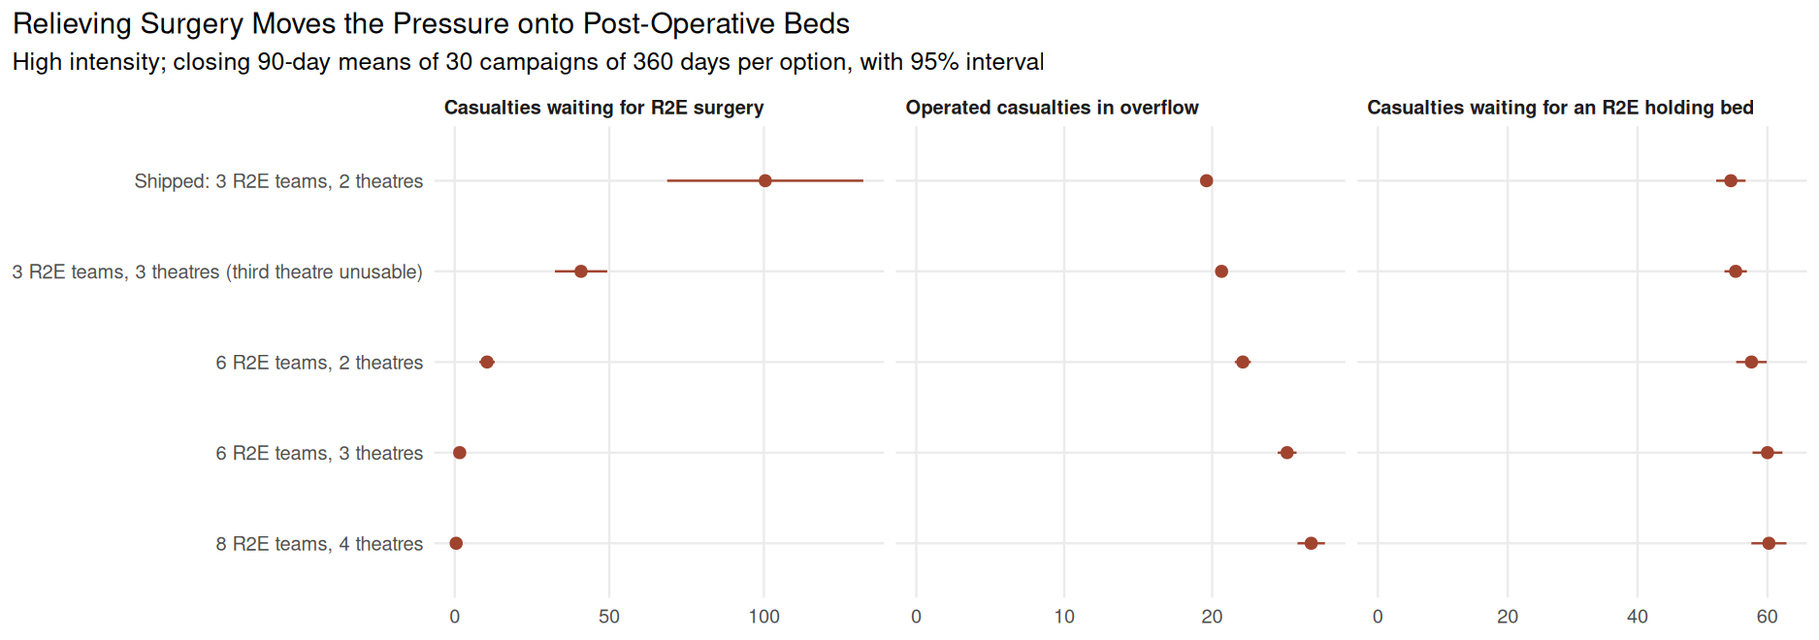
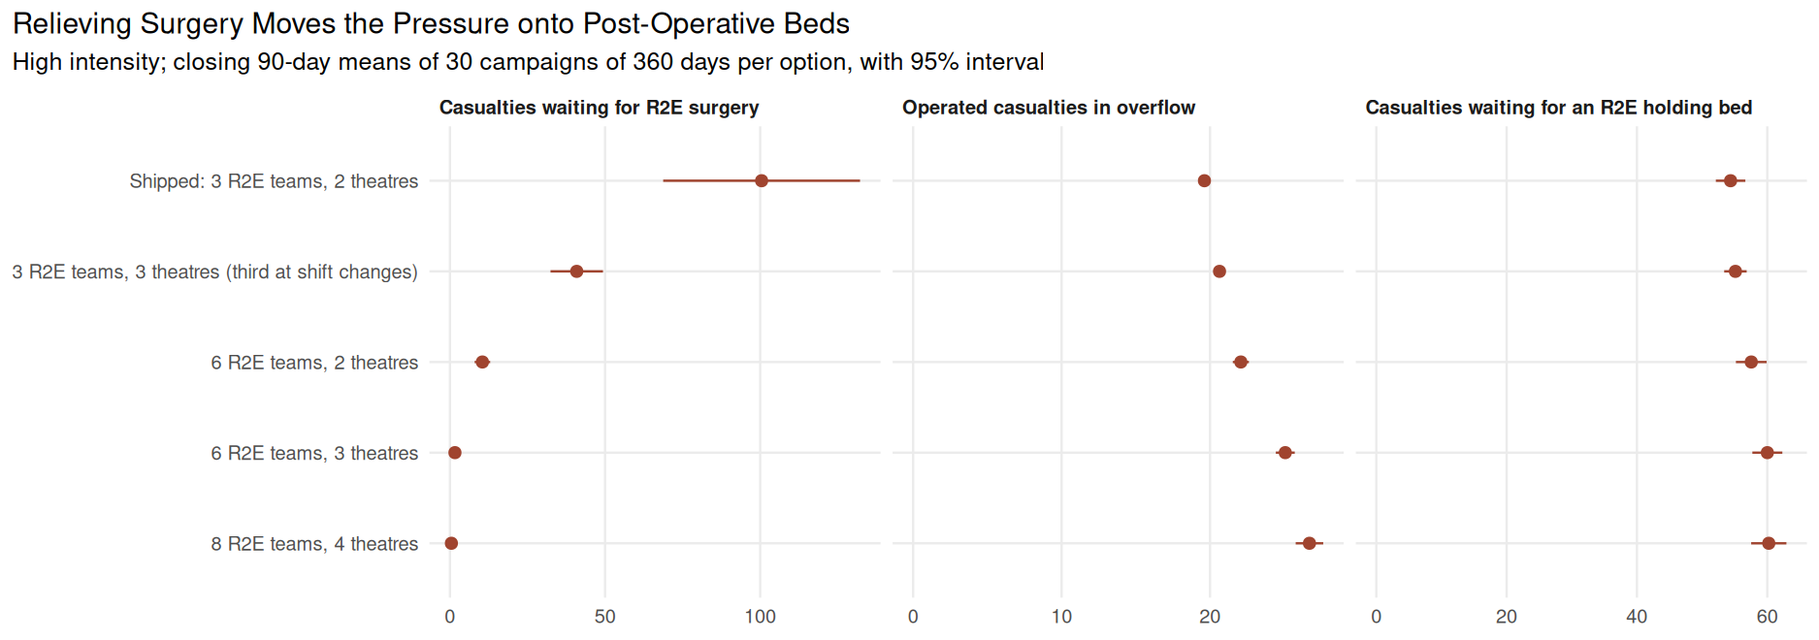
docs(issue-631): describe the third theatre at three sections as a shift-change relief
The theatre sweep called three theatres at three sections a null control, the
two sections on shift never outnumbering three theatres. A section still
operating when its shift ends keeps its theatre until it finishes
(r2e_surgery_block()), so at two theatres an incoming section can find both
held. Measured at high intensity over four 360-day runs at seed 42, the
theatre pool's queue (a section held, waiting for a theatre) formed 665 times a
campaign at two theatres, every time within three hours after a shift change,
and holding a section idle 7.3% of the time; at three theatres it never formed.

Methods, Results, the planning paper, CLAUDE.md, the sweep's comments and the
figure label now describe the arm as a third theatre used only at a shift
change, and the planning paper no longer uses it as the example of stream
divergence.

Claude-Session: https://claude.ai/code/session_01CkaegvR5JF22fhwZUpSGkn

diff --git a/docs/Planning_Implications.md b/docs/Planning_Implications.md
@@ -224,7 +224,7 @@ The beds that take the pressure back are intensive care beds. With six teams and
 
 ![Post-operative pressure at R2E for each surgical team and theatre establishment at high intensity](../images/post_op_pressure.png)
 
-The casualties waiting for R2E surgery (left), the operated casualties in post-operative overflow (centre) and the casualties waiting for an R2E holding bed (right) over the closing 90 days for each surgical team and theatre establishment at high intensity, each with its 95% interval. A third theatre at the shipped three teams cannot be used, no more than two teams being on shift at once.
+The casualties waiting for R2E surgery (left), the operated casualties in post-operative overflow (centre) and the casualties waiting for an R2E holding bed (right) over the closing 90 days for each surgical team and theatre establishment at high intensity, each with its 95% interval. A third theatre at the shipped three teams is used only at a shift change, when an operation overrunning it still holds a theatre and the incoming team would otherwise wait.
 
 ### Finding 7: R2B Sends Most of Its Surgery Rearward
 
@@ -341,7 +341,7 @@ Each row of the table is one lever a planner controls, with the setting the evid
 | Casualty surge event response | Policies to recover holding capacity | None; a stress test, remedies not yet specified | Event casualties die of wounds at <!-- GEN cell:casualty_surge::Died-of-wounds rate, event casualties::Events injected::mean -->2.02%<!-- /GEN --> against <!-- GEN cell:casualty_surge::Died-of-wounds rate, ordinary casualties::Events injected::mean -->0.81%<!-- /GEN --> for ordinary casualties ([Results](Results.md#casualty-surge-events)). Cost **measured**; remedies **untested**. | Event casualties die of wounds at <!-- GEN cell:casualty_surge_high::Died-of-wounds rate, event casualties::Events injected::mean -->17.51%<!-- /GEN --> against <!-- GEN cell:casualty_surge_high::Died-of-wounds rate, ordinary casualties::Events injected::mean -->15.08%<!-- /GEN --> for ordinary casualties ([Results](Results.md#casualty-surge-events)). Cost **measured**; remedies **untested**. |
 | Casualty surge event size | Planning for larger incidents than the configured range | None; a stress test | The R2E theatre queue is the first pool to rise, peaking at <!-- GEN cell:casualty_surge_size::None::Peak R2E theatre queue::full -->35.6 ± 8.2<!-- /GEN --> with no events, <!-- GEN cell:casualty_surge_size::20::Peak R2E theatre queue::full -->48.4 ± 13.9<!-- /GEN --> at 20 casualties per event and <!-- GEN cell:casualty_surge_size::40::Peak R2E theatre queue::full -->59.1 ± 6.3<!-- /GEN --> at 40, while the post-operative overflow moves from <!-- GEN cell:casualty_surge_size::None::Peak R2E post-operative overflow census::full -->26.9 ± 0.7<!-- /GEN --> to <!-- GEN cell:casualty_surge_size::40::Peak R2E post-operative overflow census::full -->30.5 ± 0.5<!-- /GEN -->; the theatre queue reached <!-- GEN cell:casualty_surge_size::180::Peak R2E theatre queue::full -->2082.4 ± 208.5<!-- /GEN --> at 180 casualties ([Results](Results.md#casualty-surge-event-size)). Cost **measured**; remedies **untested**; the size range is **informed estimate**. | At 20 casualties per event the peak post-operative overflow was <!-- GEN cell:casualty_surge_size_high::20::Peak R2E post-operative overflow census::full -->31.6 ± 0.8<!-- /GEN -->, against <!-- GEN cell:casualty_surge_size_high::None::Peak R2E post-operative overflow census::full -->31.7 ± 0.6<!-- /GEN --> with no events ([Results](Results.md#casualty-surge-event-size)). Cost **measured**; remedies **untested**. |
 | Surgical section count at R2B and R2E | A second R2B section per unit; a fourth R2E section at high intensity | R2E surgical section: 1 anaesthetist, 2 surgeons, 4 nurses; R2B surgical section: 1 anaesthetist, 2 surgeons, 1 medic | At moderate intensity the shipped establishment is already <!-- GEN cell:surgical_team::R2E theatre queue, late-half classification::R2E 3, R2B 1 (shipped)::full -->converged at 0.85<!-- /GEN --> ([Results](Results.md#surgical-team-establishment)). **Measured**. | The R2E theatre queue shortfall per day falls from <!-- GEN cell:surgical_team_high::R2E theatre queue shortfall per day::R2E 3, R2B 1 (shipped)::full -->0.049 [−0.232, 0.330]<!-- /GEN --> at the shipped establishment to <!-- GEN cell:surgical_team_high::R2E theatre queue shortfall per day::R2E 4, R2B 1::full -->0.001 [−0.021, 0.022]<!-- /GEN --> with a fourth R2E section and <!-- GEN cell:surgical_team_high::R2E theatre queue shortfall per day::R2E 4, R2B 2::full -->0.006 [−0.007, 0.019]<!-- /GEN --> with a fourth R2E section and a second R2B section, the queue settling in every arm, from <!-- GEN cell:surgical_team_high::R2E theatre mean queue::R2E 3, R2B 1 (shipped)::mean -->100.45<!-- /GEN --> casualties at the shipped establishment to <!-- GEN cell:surgical_team_high::R2E theatre mean queue::R2E 4, R2B 1::mean -->10.02<!-- /GEN --> with a fourth R2E section, a second R2B section per unit alone changing deaths of wounds by <!-- GEN cell:surgical_team_paired_high::Died of wounds::R2E 3, R2B 2::full -->−357.80 [−470.84, −244.76]<!-- /GEN -->, and deaths of wounds changing by <!-- GEN cell:surgical_team_paired_high::Died of wounds::R2E 4, R2B 1::full -->−418.23 [−529.52, −306.94]<!-- /GEN --> ([Results](Results.md#surgical-team-establishment)). **Measured**. |
-| R2E operating theatre count | A third theatre where three R2E sections share a shift; none at the shipped establishment | One theatre and its equipment, staffed by the surgical sections already fielded | Theatres are in use <!-- GEN cell:ot_bed::R2E theatre occupancy (%)::2 theatres, 3 sections (shipped)::mean -->27.7<!-- /GEN --> per cent of the time at the shipped establishment, and no added theatre resolves a change in deaths of wounds (<!-- GEN cell:ot_bed_paired::Died of wounds::3 theatres, 3 sections::full -->−0.40 [−4.56, +3.76]<!-- /GEN --> at three sections, <!-- GEN cell:ot_bed_paired::Died of wounds::3 theatres, 6 sections against 2 theatres, 6 sections::full -->−3.00 [−6.29, +0.29]<!-- /GEN --> at six) ([Results](Results.md#r2e-operating-theatre-establishment)). **Measured**. | At the shipped three sections a third theatre, which no section on shift can use, changes the queue by <!-- GEN cell:ot_bed_paired_high::R2E theatre mean queue::3 theatres, 3 sections::full -->−59.59 [−92.08, −27.10]<!-- /GEN -->, a change read against the divergence of the casualty streams ([Limitations](#limitations)); at six sections it shortens the queue by <!-- GEN cell:ot_bed_paired_high::R2E theatre mean queue::3 theatres, 6 sections against 2 theatres, 6 sections::full -->−8.85 [−11.38, −6.33]<!-- /GEN --> and changes deaths of wounds by <!-- GEN cell:ot_bed_paired_high::Died of wounds::3 theatres, 6 sections against 2 theatres, 6 sections::full -->−87.03 [−98.86, −75.20]<!-- /GEN --> ([Results](Results.md#r2e-operating-theatre-establishment)). **Measured**. |
+| R2E operating theatre count | A third theatre where three R2E sections share a shift; none at the shipped establishment | One theatre and its equipment, staffed by the surgical sections already fielded | Theatres are in use <!-- GEN cell:ot_bed::R2E theatre occupancy (%)::2 theatres, 3 sections (shipped)::mean -->27.7<!-- /GEN --> per cent of the time at the shipped establishment, and no added theatre resolves a change in deaths of wounds (<!-- GEN cell:ot_bed_paired::Died of wounds::3 theatres, 3 sections::full -->−0.40 [−4.56, +3.76]<!-- /GEN --> at three sections, <!-- GEN cell:ot_bed_paired::Died of wounds::3 theatres, 6 sections against 2 theatres, 6 sections::full -->−3.00 [−6.29, +0.29]<!-- /GEN --> at six) ([Results](Results.md#r2e-operating-theatre-establishment)). **Measured**. | At the shipped three sections a third theatre, used only when an operation overrunning a shift change holds a theatre the incoming section needs, changes the queue by <!-- GEN cell:ot_bed_paired_high::R2E theatre mean queue::3 theatres, 3 sections::full -->−59.59 [−92.08, −27.10]<!-- /GEN -->; at six sections it shortens the queue by <!-- GEN cell:ot_bed_paired_high::R2E theatre mean queue::3 theatres, 6 sections against 2 theatres, 6 sections::full -->−8.85 [−11.38, −6.33]<!-- /GEN --> and changes deaths of wounds by <!-- GEN cell:ot_bed_paired_high::Died of wounds::3 theatres, 6 sections against 2 theatres, 6 sections::full -->−87.03 [−98.86, −75.20]<!-- /GEN --> ([Results](Results.md#r2e-operating-theatre-establishment)). **Measured**. |
 | R2B operating theatre count | A second theatre per unit with the second R2B section; no more than two sections per unit at two theatres | One theatre and its equipment per unit, staffed by the R2B sections already fielded | A second theatre at two sections changes diversions because the theatre is busy by <!-- GEN cell:r2b_theatre_paired::Diverted from R2B, theatre busy::R2B 2 sections, 2 theatres against R2B 2 sections, 1 theatre::full -->−497.2 [−525.7, −468.7]<!-- /GEN --> and deaths of wounds by <!-- GEN cell:r2b_theatre_paired::Died of wounds::R2B 2 sections, 2 theatres against R2B 2 sections, 1 theatre::full -->−3.53 [−7.16, +0.09]<!-- /GEN --> ([Results](Results.md#r2b-second-theatre)). **Measured** for forward surgery; outcomes **unresolved**. | A second theatre at two sections changes R2B surgeries by <!-- GEN cell:r2b_theatre_paired_high::R2B surgeries::R2B 2 sections, 2 theatres against R2B 2 sections, 1 theatre::full -->+1269.5 [+1208.6, +1330.5]<!-- /GEN --> and deaths of wounds by <!-- GEN cell:r2b_theatre_paired_high::Died of wounds::R2B 2 sections, 2 theatres against R2B 2 sections, 1 theatre::full -->−100.33 [−125.17, −75.50]<!-- /GEN -->; four sections against two at two theatres change R2B surgeries by <!-- GEN cell:r2b_theatre_paired_high::R2B surgeries::R2B 4 sections, 2 theatres against R2B 2 sections, 2 theatres::full -->+157.2 [+92.7, +221.7]<!-- /GEN --> ([Results](Results.md#r2b-second-theatre)). **Measured**. |
 | R2E intensive care beds | Twelve where care quality is the aim; no count is a remedy for a pool that is not falling behind | Beds as a count; the model attaches no staff to the beds, an R2E intensive care section being 1 intensivist and 4 nurses | Twelve beds take post-definitive care in an intensive care bed from <!-- GEN cell:icu_bed::Post-definitive ICU access (%)::4 beds (shipped)::mean -->35.2<!-- /GEN --> to <!-- GEN cell:icu_bed::Post-definitive ICU access (%)::12 beds::mean -->79.2<!-- /GEN --> percent with no resolved change in deaths of wounds (<!-- GEN cell:icu_bed_paired::Died of wounds::12 beds::full -->−3.77 [−7.59, +0.05]<!-- /GEN -->) ([Results](Results.md#r2e-intensive-care-bed-establishment)). **Measured** for the care pathway; outcomes **unresolved**. | Sixteen beds take the post-operative overflow from <!-- GEN cell:icu_bed_high::R2E post-operative overflow census::4 beds (shipped)::mean -->19.62<!-- /GEN --> to <!-- GEN cell:icu_bed_high::R2E post-operative overflow census::16 beds::mean -->11.59<!-- /GEN -->, settled at every count, and the paired differences in deaths of wounds do not move consistently with the count, <!-- GEN cell:icu_bed_paired_high::Died of wounds::6 beds::full -->+5.30 [−161.08, +171.68]<!-- /GEN --> at six beds and <!-- GEN cell:icu_bed_paired_high::Died of wounds::16 beds::full -->+50.83 [−133.88, +235.55]<!-- /GEN --> at sixteen ([Results](Results.md#r2e-intensive-care-bed-establishment)). **Measured** for the pathway; outcomes **unresolved**. |
 | R2E intensive care and holding beds behind added surgery | Twelve intensive care beds with six R2E sections and three theatres; holding beds at the shipped 30 | Beds as a count; the model attaches no staff to the beds | Not measured: the theatres keep pace and the shift onto the beds does not occur measurably ([Results](Results.md#r2e-operating-theatre-establishment)). **Untested**. | Twelve intensive care beds change the overflow by <!-- GEN cell:post_op_capacity_paired_surgery::6 sections, 3 theatres, 12 ICU, 30 hold::R2E post-operative overflow census::full -->−5.81 [−6.90, −4.72]<!-- /GEN --> against six sections and three theatres alone, and 90 holding beds change the holding queue by <!-- GEN cell:post_op_capacity_paired_surgery::6 sections, 3 theatres, 4 ICU, 90 hold::R2E holding mean queue::full -->−6.86 [−9.41, −4.32]<!-- /GEN --> ([Results](Results.md#surgery-and-post-operative-beds-together)). **Measured** for the pathway; deaths of wounds **unresolved**. |
@@ -467,7 +467,7 @@ Every figure in this recommendation was measured at the upper bound that every o
 | Thirty-day evacuation delay, R2E theatre queue, high intensity | −13.29 [−65.01, +38.43] | 1.000 | 1.0 | 73,706 |
 <!-- /GEN -->
 
-Three kinds of limit separate them. The hold window's downstream effects on R2E load are limited by the stream divergence between its arms, which grows with the campaign length, so lengthening the campaign did not resolve them and the replication counts above are far beyond what any horizon change buys. The mortality differences of the intensive care gate, the evacuation policy and the saturation release are limited by the rarity of the event: deaths of wounds at moderate intensity are rare enough that no realistic number of replications would separate two groups of a few dozen casualties, so answering them needs a different measure of harm. At high intensity the open mortality differences are limited by spread rather than rarity: deaths of wounds run to hundreds per campaign, but the arms draw different casualty streams, so each difference carries the full variation between campaigns and needs replications in the hundreds of thousands, and the null control in [Limitations](#limitations) shows how large a difference that variation alone produces. Forward holding was measured as independent arms rather than as paired differences, so it has no row here; its arms overlap at both intensities ([Results: forward holding](Results.md#forward-holding-of-post-operative-intensive-care)).
+Three kinds of limit separate them. The hold window's downstream effects on R2E load are limited by the stream divergence between its arms, which grows with the campaign length, so lengthening the campaign did not resolve them and the replication counts above are far beyond what any horizon change buys. The mortality differences of the intensive care gate, the evacuation policy and the saturation release are limited by the rarity of the event: deaths of wounds at moderate intensity are rare enough that no realistic number of replications would separate two groups of a few dozen casualties, so answering them needs a different measure of harm. At high intensity the open mortality differences are limited by spread rather than rarity: deaths of wounds run to hundreds per campaign, but the arms draw different casualty streams, so each difference carries the full variation between campaigns and needs replications in the hundreds of thousands. Forward holding was measured as independent arms rather than as paired differences, so it has no row here; its arms overlap at both intensities ([Results: forward holding](Results.md#forward-holding-of-post-operative-intensive-care)).
 
 ---
 
@@ -503,7 +503,7 @@ Six limitations bear on how the recommendations above should be read.
 
 **Compute time limited what could be measured.** The effects in the resolution table are unresolved for that reason, for the rarity of the event, or because they fail the Holm adjustment that guards against reading one chance difference in twenty as real, and the replication counts that would settle them are stated there. This constrains the precision of the findings rather than their direction, and it bears hardest on mortality, which is the rarest quantity the simulation reports.
 
-**Comparisons between two configurations are not controlled.** Changing a setting alters the sequence of random draws, so the two arms of a comparison generate different casualty streams and cannot be matched campaign for campaign; their responses are uncorrelated within replication ([Methods: Pairing Arms on a Control Seed](Methods.md#pairing-arms-on-a-control-seed)). The effect is a loss of precision rather than a bias, which is why several comparisons are unresolved at the replication counts used. The theatre sweep carries a null control that shows its size: at three sections a third theatre cannot be used, two sections on shift never outnumbering three theatres, yet that arm changes deaths of wounds at high intensity by <!-- GEN cell:ot_bed_paired_high::Died of wounds::3 theatres, 3 sections::full -->−185.87 [−311.72, −60.01]†<!-- /GEN -->, larger than the resolved <!-- GEN cell:ot_bed_paired_high::Died of wounds::3 theatres, 6 sections against 2 theatres, 6 sections::full -->−87.03 [−98.86, −75.20]<!-- /GEN --> for a third theatre at six sections ([Results: R2E operating theatre establishment](Results.md#r2e-operating-theatre-establishment)). A single high-intensity mortality difference of that order is therefore read against the divergence of the casualty streams, and the paper rests its mortality recommendations on differences that survive Holm's adjustment and move consistently across the arms of a sweep. The casualty intensity comparison is unaffected, its arms differing by design rather than by a small perturbation.
+**Comparisons between two configurations are not controlled.** Changing a setting alters the sequence of random draws, so the two arms of a comparison generate different casualty streams and cannot be matched campaign for campaign; their responses are uncorrelated within replication ([Methods: Pairing Arms on a Control Seed](Methods.md#pairing-arms-on-a-control-seed)). The effect is a loss of precision rather than a bias, which is why several comparisons are unresolved at the replication counts used. The paper therefore rests its mortality recommendations on differences that survive Holm's adjustment and move consistently across the arms of a sweep. The casualty intensity comparison is unaffected, its arms differing by design rather than by a small perturbation.
 
 **The high-intensity airlift figures measure a backlog still growing, not a level.** The sustained-horizon measurement shows the casualties awaiting airlift still growing at the end of a year, and at moderate intensity possibly rising slowly, a classification its interval only just supports ([Results: sustained operations](Results.md#sustained-operations)), so no airlift figure is a steady-state figure. Nothing recommended here depends on that level, the conclusion drawn being that the backlog does not clear. The high-intensity theatre queue, by contrast, settles at a standing level.
 

diff --git a/CLAUDE.md b/CLAUDE.md
@@ -27,7 +27,7 @@ The codebase is organised into a modular layout under `R/`, with `run.R` as the 
 | `R/hold_window.R` | The R2B pre-open hold window across replications, comparing the shipped 60-minute window against a window of zero. Reduces each replication to one row of the response set inside the forked worker that produced it, on `R/policy_sweep.R`'s arrangement, every response being a casualty count read off a single arrival attribute. The two arms are not the same realisation: introducing the hold shifts `simmer`'s single global stream from the first hold onward, so the arms drift into different casualty streams and pairing on a common control seed removes little of the between-run variance, the arms' responses correlating only weakly within replication; the paired difference is reported anyway as the more precise of the two comparisons available |
 | `R/surgical_team_sweep.R` | The surgical team establishment at R2B and R2E across replications, comparing five section counts (R2E 3, 4 and 6; R2B 1 or 2 per unit; both together) against the shipped establishment. Sets the count per echelon on the resolved configuration before the resources are built (`set_surgical_sections()` fails rather than returning the configuration unchanged), reduces each replication to one row of the response set and a daily R2E theatre queue inside the forked worker that produced it, on `R/hold_window.R`'s arrangement, and classifies each arm's queue converged or drifting by `R/long_horizon.R`'s late-half fit, reading its shortfall per day from the same slope. The arms are paired on one control seed each, though not on one casualty stream |
 | `R/icu_bed_sweep.R` | The R2E intensive care bed establishment across replications, comparing the shipped four beds against six, eight, twelve and sixteen. Sets the count on the resolved configuration before the resources are built (`set_icu_establishment()` fails rather than returning the configuration unchanged), reduces each replication to one row of the response set and a daily R2E intensive care and holding queue inside the forked worker that produced it, on `R/surgical_team_sweep.R`'s arrangement, saving each finished replication so an interruption costs the replication in flight, and classifies each pool's queue converged or drifting through `surgical_stability()`. An R2E intensive care stay seizes the bed alone and not the intensive care section, so beds are swept without staff; the arms are paired on one control seed each, though not on one casualty stream |
-| `R/ot_bed_sweep.R` | The R2E operating theatre establishment across replications, crossed with the R2E surgical section count: the shipped two theatres and three sections against three theatres at three sections (a null control, two sections on shift never outnumbering three theatres), two and three theatres at six sections and four at eight. Sets both counts on the resolved configuration before the resources are built (`set_ot_establishment()` fails rather than returning the configuration unchanged), reduces each replication to the surgical team sweep's responses, the theatre, intensive care and holding occupancy and queue, and a daily series of those pools and the R2E overflow points inside the forked worker that produced it, on `R/icu_bed_sweep.R`'s arrangement, and classifies each pool converged or drifting through `surgical_stability()`. The shipped arm and the six-section arm at two theatres are the surgical team sweep's configurations under the same seed and reproduce its replications |
+| `R/ot_bed_sweep.R` | The R2E operating theatre establishment across replications, crossed with the R2E surgical section count: the shipped two theatres and three sections against three theatres at three sections (the third used only when an operation overrunning a shift change holds a theatre), two and three theatres at six sections and four at eight. Sets both counts on the resolved configuration before the resources are built (`set_ot_establishment()` fails rather than returning the configuration unchanged), reduces each replication to the surgical team sweep's responses, the theatre, intensive care and holding occupancy and queue, and a daily series of those pools and the R2E overflow points inside the forked worker that produced it, on `R/icu_bed_sweep.R`'s arrangement, and classifies each pool converged or drifting through `surgical_stability()`. The shipped arm and the six-section arm at two theatres are the surgical team sweep's configurations under the same seed and reproduce its replications |
 | `R/post_op_capacity_sweep.R` | Added R2E surgery crossed with the R2E intensive care and holding bed establishment at high intensity: six surgical sections and three theatres against four, eight and twelve intensive care beds and 30, 60 and 90 holding beds, with the shipped establishment as an arm. Sets the four counts on the resolved configuration before the resources are built (`apply_post_op_setting()`, through the setters of the sweeps that own them, each failing rather than returning the configuration unchanged), and measures, reduces and classifies each arm with `R/ot_bed_sweep.R`'s functions. Every arm is compared with the shipped establishment and every bed arm with the added surgery alone; the shipped arm and the added surgery at the shipped beds are the operating theatre sweep's configurations under the same seed and reproduce its high-intensity replications |
 | `R/r2b_theatre_sweep.R` | A second R2B operating theatre with the R2B surgical sections across replications, R2E held at its shipped establishment: one section and one theatre per unit (shipped), two sections at one and two theatres, and four sections at two theatres, each step adding one thing to the arm before it. Sets the counts on the resolved configuration before the resources are built (`set_r2b_ot_establishment()`, with `set_surgical_sections()`, each failing rather than returning the configuration unchanged), and reduces each replication with `R/ot_bed_sweep.R`'s reduction plus the R2B theatres' occupancy. Four sections at one theatre is not an arm, reproducing two sections at one theatre exactly; the shipped arm and two sections at one theatre are the surgical team sweep's configurations under the same seed and reproduce its replications |
 | `R/surgical_package_sweep.R` | R2B and R2E surgery with R2E intensive care beds fielded together at high intensity: the shipped establishment, the R2B package of two sections and two theatres per unit, and that package with a fourth R2E section, with twelve R2E intensive care beds, with six R2E sections and three theatres, and with both. Sets every count on the resolved configuration before the resources are built (`apply_package_setting()`, through the setters of the sweeps that own them, each failing rather than returning the configuration unchanged), and reduces each replication with `R/r2b_theatre_sweep.R`'s reduction. Each R2E addition is compared with the R2B package alone, pricing it once R2B keeps its surgery forward; the shipped arm and the R2B package alone are the R2B second theatre sweep's configurations under the same seed and reproduce its high-intensity replications |

diff --git a/docs/Methods.md b/docs/Methods.md
@@ -760,7 +760,7 @@ Each replication is reduced inside the forked worker to one row of responses and
 <!-- OT_BEDS window_days=90 -->
 <!-- OT_BEDS baseline=2 theatres, 3 sections -->
 <!-- OT_BEDS arms=2/3;3/3;2/6;3/6;4/8 -->
-Thirty replications of 360 simulated days at each of five R2E operating theatre and surgical section establishments, at control seed 42, under the shipped default configuration and again under the `high_intensity` profile. What limits a theatre is the number of sections on shift at once against the number of theatres, not the section count itself: odd-numbered sections take the first shift and even-numbered the second, so three sections put two on the larger shift, six put three on each and eight four. The arms are chosen on that ratio: two theatres and three sections (shipped, two on shift against two theatres), three theatres and three sections (a null control, the theatres unable to limit), two theatres and six sections (three on shift against two), three theatres and six sections (the third theatre isolated) and four theatres and eight sections (balanced growth). The theatre count enters through `elms.r2eheavy.beds.ot.qty` and the section count through `elms.r2eheavy.sub_elms.surg.qty`, both set on the resolved configuration before `build_environment()` constructs the resources, `set_ot_establishment()` failing where the theatre pool cannot be found rather than returning the configuration unchanged. R2B theatres are not swept, a unit's one or two sections never being on shift together. Invoked as:
+Thirty replications of 360 simulated days at each of five R2E operating theatre and surgical section establishments, at control seed 42, under the shipped default configuration and again under the `high_intensity` profile. What limits a theatre is the number of sections on shift at once against the number of theatres, not the section count itself: odd-numbered sections take the first shift and even-numbered the second, so three sections put two on the larger shift, six put three on each and eight four. A section still operating when its shift ends keeps its theatre until it finishes, so at a shift change an incoming section can find every theatre held by an overrunning operation. The arms are chosen on that ratio: two theatres and three sections (shipped, two on shift against two theatres), three theatres and three sections (two on shift against three theatres, the third used only when operations overrun a shift change), two theatres and six sections (three on shift against two), three theatres and six sections (the third theatre isolated) and four theatres and eight sections (balanced growth). The theatre count enters through `elms.r2eheavy.beds.ot.qty` and the section count through `elms.r2eheavy.sub_elms.surg.qty`, both set on the resolved configuration before `build_environment()` constructs the resources, `set_ot_establishment()` failing where the theatre pool cannot be found rather than returning the configuration unchanged. R2B theatres are not swept, a unit's one or two sections never being on shift together. Invoked as:
 
 ```
 Rscript scripts/run_ot_bed_sweep.R --refresh-baseline

diff --git a/docs/Results.md b/docs/Results.md
@@ -1159,7 +1159,7 @@ At the shipped establishment at high intensity the R2E theatre queue averaged <!
 
 ![Three panels of the R2E theatre queue, operated casualties in post-operative overflow and the R2E holding queue for five theatre and surgical team options at high intensity](../images/post_op_pressure.png)
 
-The closing 90-day mean R2E theatre queue (left), operated casualties in post-operative overflow (centre) and R2E holding queue (right) for each theatre and section establishment at high intensity, each with its 95% interval and every axis starting at zero. Three theatres at three sections is the null control, its added theatre being unusable.
+The closing 90-day mean R2E theatre queue (left), operated casualties in post-operative overflow (centre) and R2E holding queue (right) for each theatre and section establishment at high intensity, each with its 95% interval and every axis starting at zero. At three theatres and three sections the added theatre is used only at a shift change, when an operation overrunning it still holds a theatre and an incoming section would otherwise wait.
 
 ### Surgery and Post-Operative Beds Together
 
